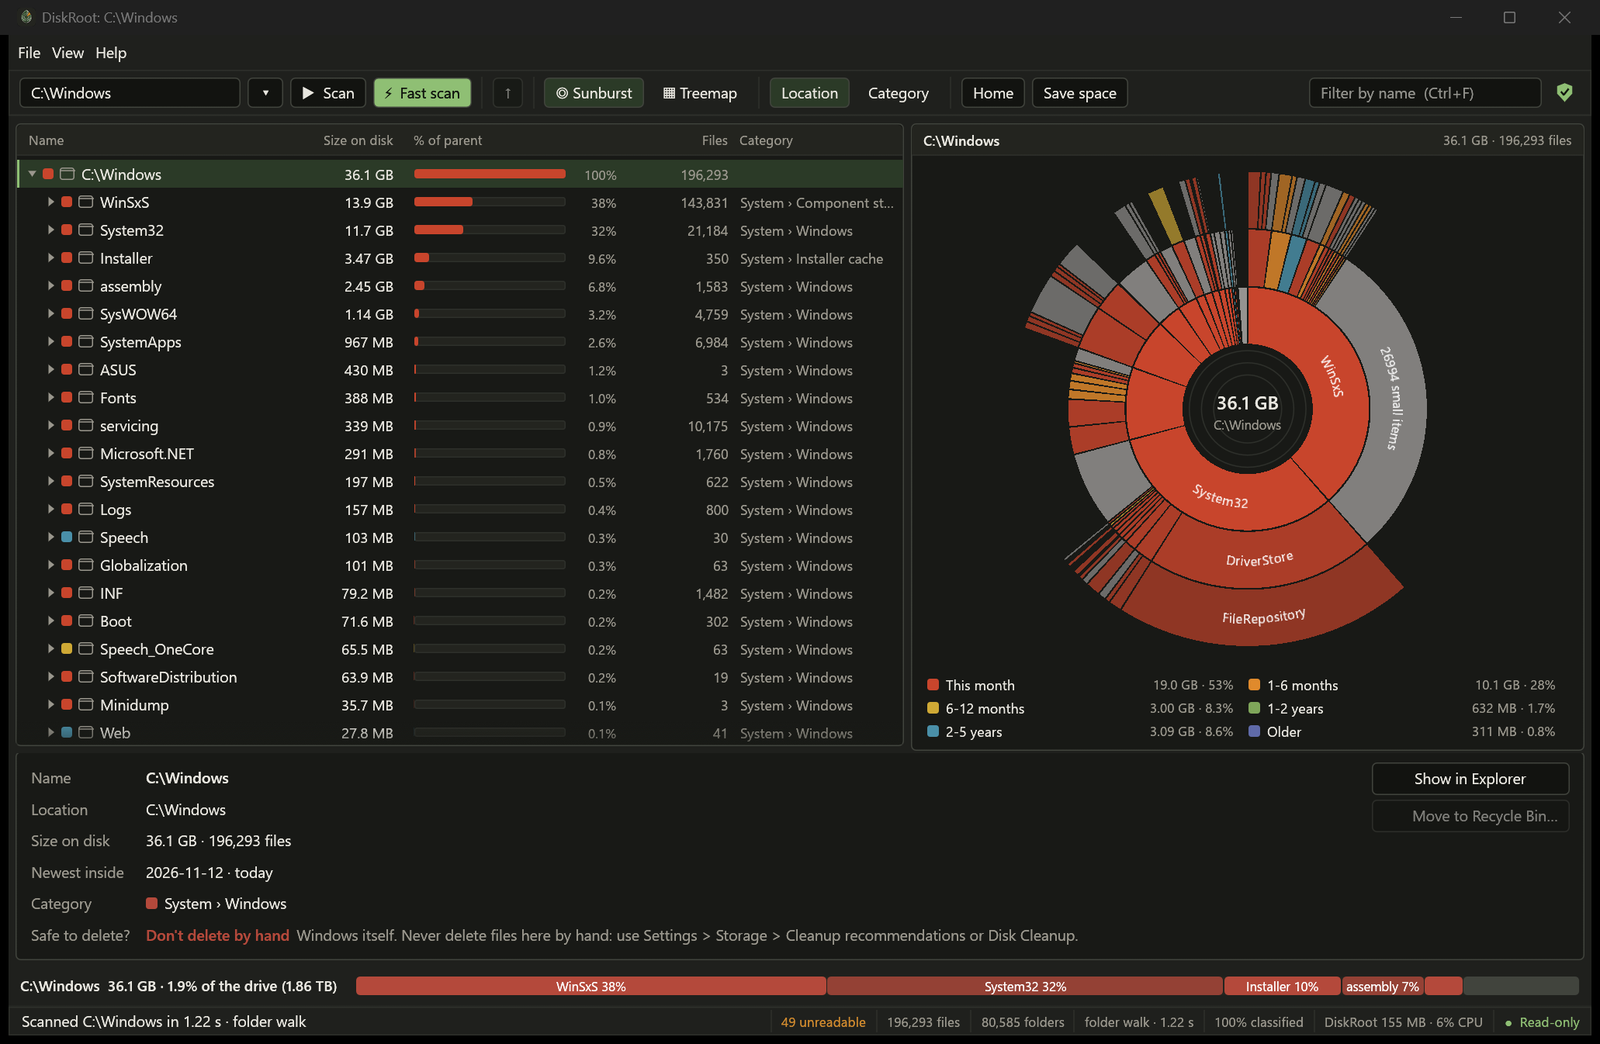
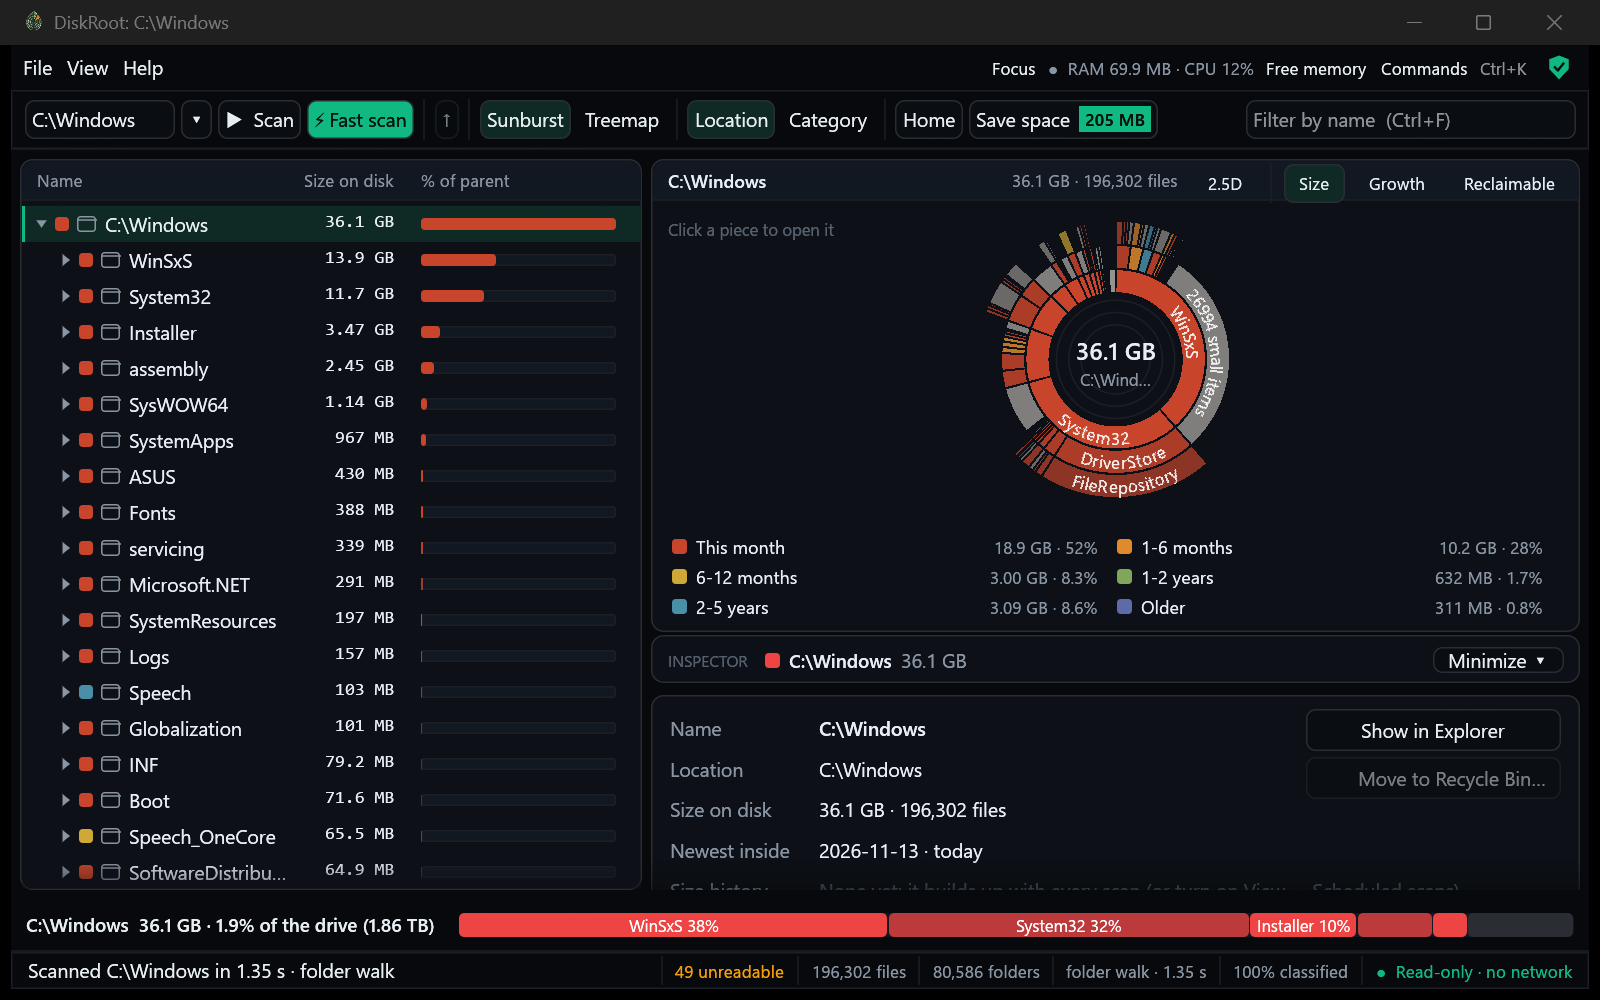
0.7.0: docs, screenshots, last fixes
- Version 0.7.0 (Cargo, installer); release notes "New in 0.7.0".
- README: map modes / 2.5D / Ctrl+K, "runs on any PC"; Studio window.
- FEATURES-AND-DEVELOPMENT: Studio window, map colours, 2.5D (with a
  picture), transitions, shortcuts, runs without a graphics driver, speed
  guard. HOW-IT-WORKS: drawing, CPU renderer, modes, 2.5D. BENCHMARKS:
  drawing the window (OpenGL, CPU renderer, WARP). ROADMAP: releases.
- New screenshots and demo GIF of C:\Windows in the Studio look.
- Fix: the folder list scrolls to the selection by setting its own
  offset; the global "scroll to me" request could scroll the Inspector
  or the list itself to the wrong place at start.
- Fix: wrapped notes in Home were stretched (justified columns).
- The Inspector's details start at the top for each selection.

diff --git a/crates/native/src/app.rs b/crates/native/src/app.rs
@@ -2162,13 +2162,18 @@ impl DiskRootApp {
             let mut hovered: Option<Key_> = None;
             let scroll_to = if self.scroll_to_selected { sel_idx } else { None };
             ui.spacing_mut().item_spacing.y = 0.0;
-            ScrollArea::vertical().auto_shrink([false, false]).show_rows(ui, ROW_H, rows.len(), |ui, range| {
+            // Bring the selected row to the middle by setting this list's own
+            // offset (a "scroll to me" request can be picked up by another
+            // scrolling area, e.g. the Inspector's).
+            let mut area = ScrollArea::vertical().auto_shrink([false, false]);
+            if let Some(i) = scroll_to {
+                let view_h = ui.available_height();
+                area = area.vertical_scroll_offset((i as f32 * ROW_H + ROW_H / 2.0 - view_h / 2.0).max(0.0));
+            }
+            area.show_rows(ui, ROW_H, rows.len(), |ui, range| {
                 for i in range {
                     let r = &rows[i];
                     let (rect, resp) = ui.allocate_exact_size(vec2(full, ROW_H), Sense::click());
-                    if scroll_to == Some(i) {
-                        resp.scroll_to_me(Some(Align::Center));
-                    }
                     let p = ui.painter_at(rect);
                     let selected = sel_idx == Some(i);
                     // Accessible name + state for screen readers (and UI Automation).
@@ -3932,17 +3937,17 @@ impl DiskRootApp {
                                     }
                                 }
                                 if ch.hardlink_switch() {
-                                    cols[0].add(egui::Label::new(RichText::new("Partly because hardlinked files now count once.").color(theme::WARN).size(12.0)).wrap());
+                                    plain_note(&mut cols[0], RichText::new("Partly because hardlinked files now count once.").color(theme::WARN).size(12.0));
                                 }
                                 if cols[0].small_button("All changes…").clicked() {
                                     action = Some("home-changes");
                                 }
                             }
                             Some(_) => {
-                                cols[0].label(RichText::new("Nothing changed by more than 1 MB since the previous scan.").color(t.faint));
+                                plain_note(&mut cols[0], RichText::new("Nothing changed by more than 1 MB since the previous scan.").color(t.faint));
                             }
                             None => {
-                                cols[0].add(egui::Label::new(RichText::new("No earlier scan to compare with yet. Scan again later, or turn on scheduled scans.").color(t.faint)).wrap());
+                                plain_note(&mut cols[0], RichText::new("No earlier scan to compare with yet. Scan again later, or turn on scheduled scans.").color(t.faint));
                             }
                         }
                         cols[1].label(RichText::new("Get space back").font(theme::semibold(13.5)));
@@ -6119,7 +6124,8 @@ impl DiskRootApp {
                                 self.inspector_bar(ui);
                             });
                             ui.add_space(4.0);
-                            ScrollArea::vertical().auto_shrink([false, false]).show(ui, |ui| self.details_pane(ui));
+                            // Each selection starts at the top of its details.
+                            ScrollArea::vertical().id_salt(("details", self.selected.clone())).auto_shrink([false, false]).show(ui, |ui| self.details_pane(ui));
                         });
                 }
             }
@@ -6303,4 +6309,12 @@ fn changes_summary(ch: &Changes) -> String {
 fn lerp(a: Color32, b: Color32, k: f32) -> Color32 {
     let m = |x: u8, y: u8| (f32::from(x) + (f32::from(y) - f32::from(x)) * k.clamp(0.0, 1.0)).round() as u8;
     Color32::from_rgb(m(a.r(), b.r()), m(a.g(), b.g()), m(a.b(), b.b()))
+}
+
+/// Wrapped text in a column, left-aligned. (`ui.columns` lays out
+/// "justified", which would stretch the spaces of wrapped lines.)
+fn plain_note(ui: &mut Ui, text: RichText) {
+    ui.with_layout(Layout::top_down(Align::Min), |ui| {
+        ui.add(egui::Label::new(text).wrap());
+    });
 }

diff --git a/docs/FEATURES-AND-DEVELOPMENT.md b/docs/FEATURES-AND-DEVELOPMENT.md
@@ -51,6 +51,16 @@ This page explains every feature of DiskRoot 0.2: **what it does, how to use it,
 
 ## 2. Seeing where the space goes
 
+### The Studio window
+- **Layout:** the map in the middle, the folder list on the left, the **Inspector** under the map (what the selected item is, whether it's safe to delete, its size history, and Compress / Recycle Bin). Drag the edges to resize; **Ctrl+B** / **Ctrl+J** (or View) minimize the list / the Inspector; DiskRoot remembers that.
+- **Focus (F):** only the map; Esc brings the rest back.
+- **Command palette (Ctrl+K, or Commands at the top):** type a few letters: every command, and every folder or file in the scan by name, biggest first. ↑ ↓ Enter.
+- **Top row:** DiskRoot's own RAM and CPU (click for details), Free memory, Focus, Commands, Security. The status bar ends with "Read-only · no network".
+- **Save space badge:** the biggest single way to get space back (not a sum: some ways overlap).
+- **Notices:** what just happened (moved to the Recycle Bin, exported, memory freed, errors) pops up bottom-right for a few seconds.
+- **Looks:** Studio (dark or Daylight) by default; View → Classic look for the warm paper and moss green of earlier versions.
+- **Underneath:** the palette's name search is one pass over the scan with no allocation per name (about 4 ms on a 1.7M-file drive).
+
 ### The tree-table
 - **What it shows:** each folder's size on disk, a bar and percentage of its parent, the number of files, the category, and (after a rescan) how much it changed.
 - **Use it:** click the triangle or press → to open a folder, ← to close it. Double-click opens too. **Ctrl+F** filters by name.
@@ -61,6 +71,14 @@ This page explains every feature of DiskRoot 0.2: **what it does, how to use it,
 - **Treemap:** nested rectangles, area = size.
 - **Use it:** click a slice to go into it, click the middle (or press Backspace) to go up. Hover for details. Switch in the toolbar or the View menu.
 - **Underneath:** the engine sends the map a *pruned view*: about 6 levels deep, with anything under 0.2% merged into "N small items". The map never draws millions of shapes, and its layout is cached until the window size or the folder changes. It only redraws when you move the mouse or something changes.
+- **Breadcrumbs:** the path to the folder on the map, each level clickable.
+- **Colours: Size / Growth / Reclaimable** (switch in the map's title, or Ctrl+K):
+  - **Size:** by category (or by age, below).
+  - **Growth:** each folder against the previous scan of the same place: grew a lot, grew, about the same, shrank, new. Files and folders under 1 MB aren't tracked between scans (grey).
+  - **Reclaimable:** green = what DiskRoot's rules label *safe to clear*; amber = *check first* places that are still space to get back (caches, Windows leftovers with a Windows cleanup tool). Documents, Downloads and other personal folders are "check first" too, but they aren't reclaimable space, so they're not counted. Each place is counted once; protected places never. About 9 ms for a whole drive.
+- **2.5D (optional, the "2.5D" switch or View → Tilted map):** the same map tilted: treemap boxes stand up by size (square root, so small ones still show), the sunburst becomes a low stepped relief. Flat polygons drawn back to front, no 3D engine; clicks and hover hit what you see.
+  ![The tilted 2.5D treemap of C:\Windows](screenshots/diskroot-25d.png)
+- **Transitions:** a short sweep / grow (220 ms) when the map opens a folder or goes up; it redraws only while it moves. View → Smooth transitions turns it off.
 
 ### Group by location or by category
 - **Location:** the folder tree as it is on disk.
@@ -81,7 +99,7 @@ This page explains every feature of DiskRoot 0.2: **what it does, how to use it,
 - **Underneath:** built on a worker thread from a cheap copy of the scan (its big parts are shared, not copied), like Save space now: about 0.2 s on a whole 1.7M-file drive that no longer freezes the window.
 
 ### Keyboard and screen readers
-- **Help → Keyboard shortcuts** lists them: F5, Ctrl+F5, Ctrl+H, Ctrl+F, arrows, Enter, Backspace, Space / Ctrl+click to mark, Delete, Esc.
+- **Help → Keyboard shortcuts** lists them: Ctrl+K, F, Ctrl+B, Ctrl+J, F5, Ctrl+F5, Ctrl+H, Ctrl+F, arrows, Enter, Backspace, Space / Ctrl+click to mark, Delete, Esc.
 - Tree rows, the map ("Sunburst map of C:\. The biggest items are listed below it and in the tree") and every legend entry ("AI & data: 639 GB (42%)") have names for screen readers (checked with Windows UI Automation).
 
 ---
@@ -259,6 +277,10 @@ All opt-in, and all done by Windows' own tools.
 
 ---
 
+### Runs on any PC, also without a graphics driver
+- DiskRoot normally draws with OpenGL. Where OpenGL can't start (virtual machines, some Remote Desktop sessions, the "Microsoft Basic Display Adapter"), it opens again drawn on the CPU, by itself. `DISKROOT_RENDERER=software` forces that.
+- **Speed guard:** if the map's transitions draw at under ~20 frames a second, DiskRoot turns them off (very slow: the 2.5D map too) and says so, once. Whatever you turn back on stays on.
+
 ## 8. Settings, files and shortcuts
 
 | Key | Action |
@@ -270,6 +292,9 @@ All opt-in, and all done by Windows' own tools.
 | Delete | Move to Recycle Bin (the marked items if any are marked) |
 | Space / Ctrl+click | Mark / unmark |
 | Ctrl+F | Filter the tree by name |
+| Ctrl+K | Command palette: every command and folder |
+| F / Esc | Focus on the map / back |
+| Ctrl+B / Ctrl+J | Minimize or show the folder list / the Inspector |
 
 | File | What's in it |
 |---|---|

diff --git a/docs/HOW-IT-WORKS.md b/docs/HOW-IT-WORKS.md
@@ -133,7 +133,10 @@ The folder where a classification was decided is the item's **anchor**. The Cate
 - **The engine API (`crates/session`):** one `Scanned` value answers every question the UI asks: `list` (a folder's children, biggest first), `view` (shapes for the map), `category_view`, `info` (the details pane), `prepare_delete`, `leftovers`, `top_files`, `age_breakdown`, … The UI never touches the raw index.
 - **Child lists:** a compact table (start offset + ids) built once per scan, so "children of X" is a slice, not a search.
 - **The pruned view for the map:** at most about 6 levels deep, and anything smaller than 0.2% of the current folder is merged into "N small items". A sunburst of a whole drive is a few thousand shapes, not millions.
-- **The app (`crates/native`):** egui, drawn with OpenGL. The layout is cached, and the window redraws only on input, while a job runs, or once a second while live updates are on. No browser engine, one process, fonts from Windows.
+- **The app (`crates/native`):** egui, drawn with OpenGL. The layout is cached, and the window redraws only on input, while a job or a transition runs, or when a watched folder changes. No browser engine, one process, fonts from Windows (Segoe UI; Cascadia Mono or Consolas for numbers).
+- **Without OpenGL (`soft.rs`):** when OpenGL can't start, the exe opens again and draws on the CPU: egui's triangles are rasterised in horizontal bands on all cores (edge functions with a fill rule, premultiplied blending, pixel-exact text), and the picture goes to the window through plain GDI. It compares each frame with the previous one and repaints only the rectangle that changed, so an unchanged frame costs about 2 ms. Windows' own software renderer (Direct3D WARP) was measured first: about 400 ms per frame, so DiskRoot doesn't use it.
+- **The map's modes:** Growth compares each shown folder with the previous scan's folder sizes (kept for folders of 1 MB or more); Reclaimable is one pass that adds each labelled place's size to its parent folders (only folders with something reclaimable are kept: ~3,000 on a 1.7M-file drive).
+- **2.5D:** the 2D layout projected onto a tilted plane with heights; polygons in painter's order (back to front), and a hit test that runs the projection backwards per height.
 - **Jobs:** scans, deletes, exports, the duplicate finder and Windows tools run on worker threads and report back through channels. A progress dialog shows while they run.
 
 ---

diff --git a/README.md b/README.md
@@ -92,6 +92,20 @@ Right-click → **Compress…**: Windows' own file compression, on many files at
 
 </td>
 </tr>
+<tr>
+<td valign="top">
+
+### 🗺 A map that answers questions
+Colour it by **Size**, by **Growth** since the last scan, or by what's **Reclaimable** (safe to clear in green, caches to check in amber). Tilt it into **2.5D** if you like. **Ctrl+K** finds any command or folder by name.
+
+</td>
+<td valign="top">
+
+### 🖥 Runs on any PC
+One small exe. No graphics driver? DiskRoot draws on the CPU by itself (virtual machines, Remote Desktop). Slow PC? It turns its animations off by itself. Idle, it draws nothing.
+
+</td>
+</tr>
 </table>
 
 <p align="center">
@@ -107,7 +121,8 @@ Right-click → **Compress…**: Windows' own file compression, on many files at
 - **Instant reopen:** your last scan opens in under a second; **What changed** points at the exact folders that grew or shrank.
 - Largest files and types, duplicate finder, similar folders (`project`, `project_v2`, `project - Copy`), leftovers of uninstalled programs, live updates while open, size alerts.
 - **Teach DiskRoot:** right-click a folder → *This is…* (my project, a dataset, a game…), or write your own rules.
-- Its own RAM and CPU in the status bar, free its memory with one click, gentle scanning, light and dark themes, keyboard shortcuts, screen-reader names for the map.
+- **Studio window:** the map in the middle, a folder list and an Inspector you can resize or minimize (Ctrl+B, Ctrl+J), Focus mode (F), breadcrumbs, notices. Studio look (dark or Daylight) or the Classic look.
+- Its own RAM and CPU at the top, free its memory with one click, gentle scanning, keyboard shortcuts, screen-reader names for the map and the palette.
 
 Every feature, with what happens underneath: [FEATURES-AND-DEVELOPMENT.md](docs/FEATURES-AND-DEVELOPMENT.md).
 </details>

diff --git a/.github/release-notes.md b/.github/release-notes.md
@@ -2,6 +2,18 @@
 
 **DiskRoot {{VERSION}}**: a fast disk space analyzer for Windows 10/11. It shows what fills your drive, what each thing is, and whether it's safe to delete.
 
+## New in 0.7.0
+A new window, designed as "DiskRoot Studio", and a map that answers more questions. Still one small exe, offline, read-only scanning.
+
+- **Studio window:** the map in the middle, the folder list on the left and the Inspector (what it is, is it safe, its size history) under the map. Both sides resize and minimize (**Ctrl+B**, **Ctrl+J**); **F** shows only the map.
+- **Ctrl+K command palette:** every command and every folder or file by name, biggest first.
+- **Map colours: Size, Growth, Reclaimable.** Growth shows what grew or shrank since the previous scan; Reclaimable shows what DiskRoot's rules label safe to clear (green) and caches or Windows leftovers to check first (amber). Personal folders aren't counted as reclaimable.
+- **Optional 2.5D map** (2D stays the default): a tilted treemap "city" or a stepped sunburst, boxes standing up by size.
+- **Breadcrumbs** on the map, short **transitions** when you open a folder, **notices** for what just happened, and a **Save space badge** with the biggest single way to get space back.
+- **Studio look** (dark and Daylight) is the new default; the **Classic look** is under View.
+- **Runs without a graphics driver:** if OpenGL can't start (virtual machines, some Remote Desktop sessions, the Basic Display Adapter), DiskRoot draws on the CPU instead, automatically. It redraws only what changed.
+- **Slow PCs:** if the map's transitions draw at under ~20 frames a second, DiskRoot turns them off by itself (and says so).
+
 ## New in 0.6.1
 - **New logo and app icon:** the DiskRoot leaf, without the dark tile, in the taskbar, Start menu, title bar, start screen and About.
 

diff --git a/docs/BENCHMARKS.md b/docs/BENCHMARKS.md
@@ -42,6 +42,20 @@ No measurable slowdown; memory is up 2.5% for the dates.
 | Classifying 1.8M items (categories, notes, safety) | 0.12–0.15 s |
 | Reopening a remembered scan | 0.3–0.4 s |
 
+## Drawing the window
+Full C: scan (1.7M files) open, window 2062×1346, frame after frame (`DISKROOT_BENCH`). Developer laptop (Core Ultra 9 275HX), 13 Nov 2026, DiskRoot 0.7.
+
+| Renderer | Frame interval | Same, limited to 2 cores | Peak RAM |
+|---|---|---|---|
+| OpenGL (normal) | 4.2 ms | 4.4–4.6 ms | ~280–320 MB |
+| CPU renderer, everything redrawn (worst case) | 11 ms (2D), 13 ms (2.5D) | 34 ms (2D), 39 ms (2.5D) | ~205 MB |
+| CPU renderer, nothing changed | 2 ms | 2 ms | ~205 MB |
+| Windows' own software renderer (Direct3D WARP), for comparison | ~400 ms | 520–640 ms | ~445 MB |
+
+- Building the UI itself takes 0.3–0.5 ms a frame in every case.
+- Idle (nothing changing): no frames are drawn, 0% CPU.
+- The CPU renderer is the fallback for PCs where OpenGL can't start; on this laptop it was forced with `DISKROOT_RENDERER=software`. Slower CPUs will be slower; the speed guard turns transitions off below ~20 frames a second.
+
 ## Compression
 
 How much DiskRoot's **Compress** saves, by file type. Measured 12 Nov 2026 on copies of real files (the originals were only read) with the open probe [`tools/compress-probe`](../tools/compress-probe): each copy compressed with every Windows (WOF) algorithm on one thread, checked byte-for-byte identical afterwards, then uncompressed. zstd and lz4 (in memory, not usable transparently by Windows) are there for comparison. Percent = space saved; MB/s = input per second, one thread (the engine runs many files in parallel).

diff --git a/docs/ROADMAP.md b/docs/ROADMAP.md
@@ -18,7 +18,10 @@
 | v0.3.0 | Own fast compression engine (right-click Compress), Similar folders, real size of compressed files in the normal scan, "what changed" knows the scan method | Released (unsigned) |
 | v0.4.0 | Ways to save space (what to compress, other ways to get space back), arrival dates ("changed or added"), measured compression estimates, cache rules safe only in app data, compression research call | Released (unsigned) |
 | v0.4.1 | One download with the CLI on PATH, always-latest download links | Released (unsigned) |
-| v0.5.0 | Home, Drive health and Who's writing (no admin), scheduled scans, size history and forecast, warnings, Where every GB is, hardlinks once in the folder walk, smarter categories (projects, owners, teach DiskRoot), DiskRoot's own RAM/CPU | Ready, waiting for the final test and the owner's go |
+| v0.5.0 | Home, Drive health and Who's writing (no admin), scheduled scans, size history and forecast, warnings, Where every GB is, hardlinks once in the folder walk, smarter categories (projects, owners, teach DiskRoot), DiskRoot's own RAM/CPU | Released (unsigned) |
+| v0.5.1 | Fixes from a full audit: compressed saved scans, hardlinks only where reliable, admin warning, honest numbers | Released (unsigned) |
+| v0.6.0 / 0.6.1 | New name DiskRoot (`droot`), new logo | Released (unsigned) |
+| v0.7.0 | Studio window (map-first, docks, Focus, Ctrl+K), map colours Size / Growth / Reclaimable, optional 2.5D map, transitions, Studio look, runs without a graphics driver (own CPU renderer), speed guard | In testing |
 | 1.0 | Signed, tested on more hardware | Planned |
 
 ## Done
